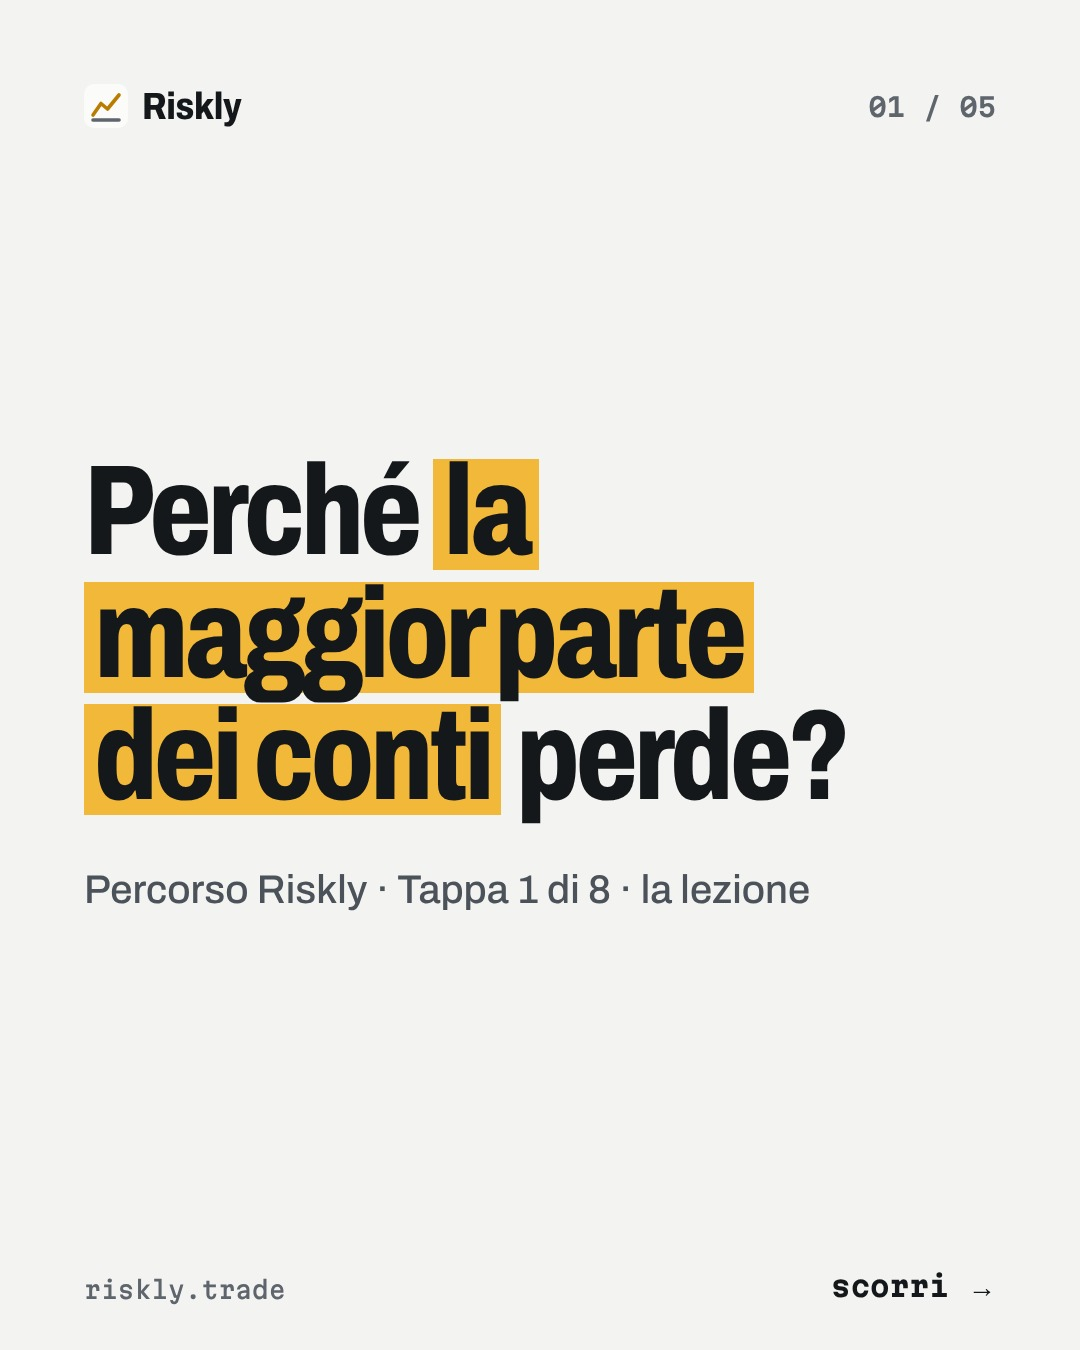
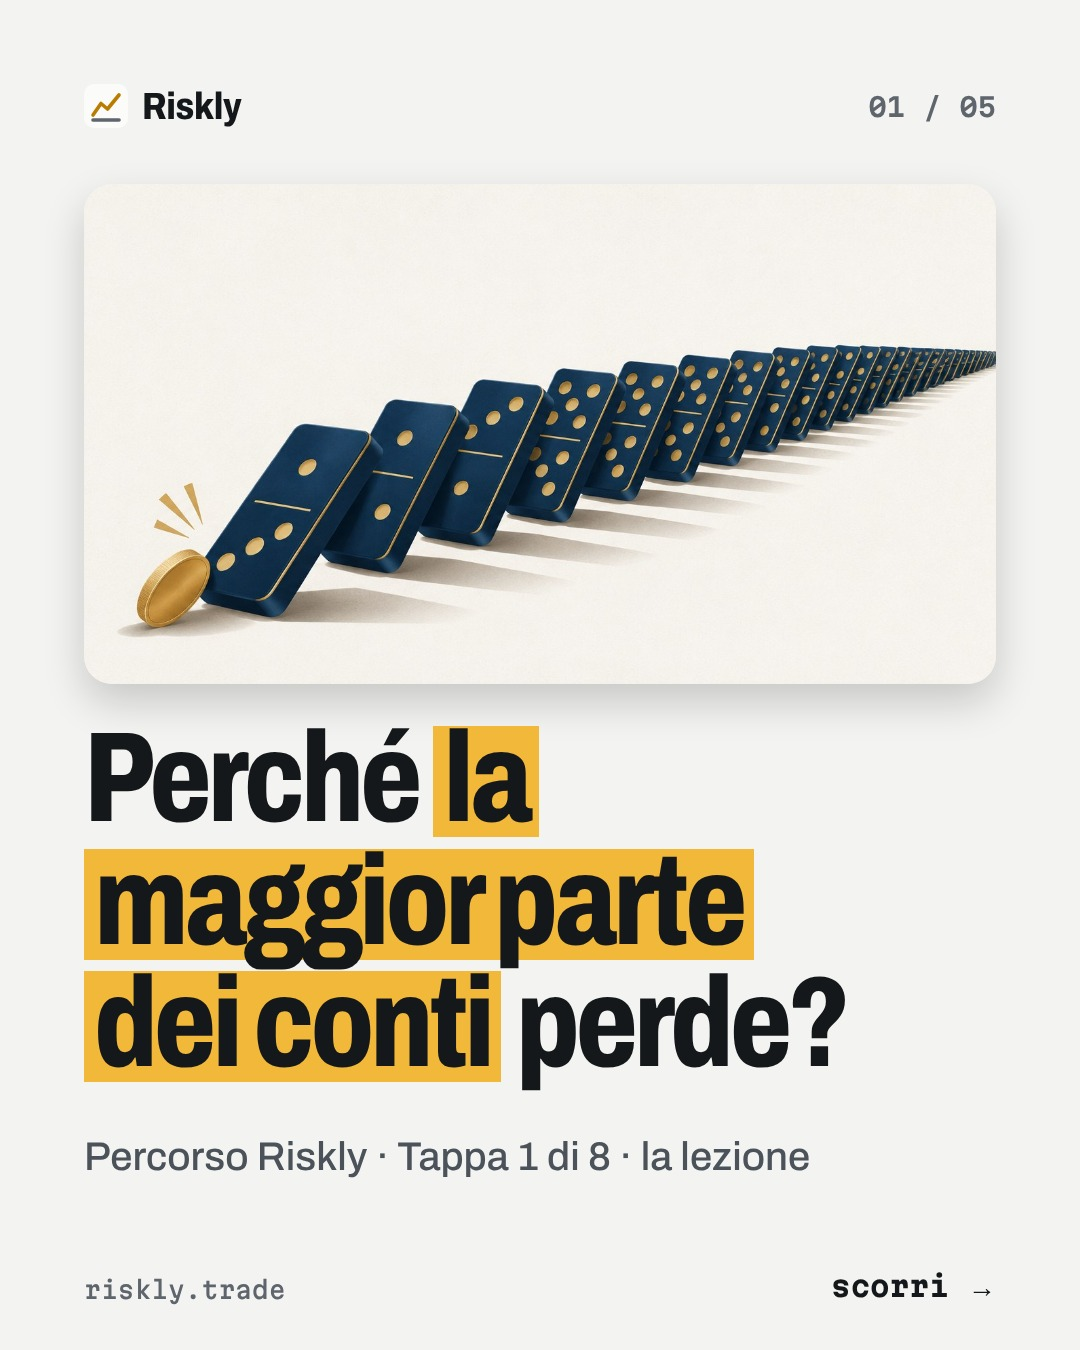
Caroselli: immagine Higgsfield nella prima slide (p1-lezione)
Claude-Session: https://claude.ai/code/session_01Rox5Y82H3wuFvLiNNm8L9A

Changed region(s): [[0.0611, 0.2489, 0.9472, 0.8089], [0.3667, 0.84, 0.7639, 0.8711], [0.0611, 0.84, 0.3361, 0.8711]]

diff --git a/social/caroselli/modello.html b/social/caroselli/modello.html
@@ -50,6 +50,7 @@
   .piede{position:absolute;left:84px;right:84px;bottom:46px;display:flex;justify-content:space-between;align-items:flex-end;font:500 24px 'Martian Mono';color:var(--grigio2)}
   .disc{font:500 24px/1.4 'Archivo';color:var(--grigio2);max-width:44ch}
   .freccia{font:700 28px 'Martian Mono';color:var(--inchiostro)}
+.foto{display:block;width:100%;height:500px;object-fit:cover;border-radius:28px;margin:0 0 34px;box-shadow:0 18px 40px rgba(0,0,0,.18)}
 </style></head>
 <body><div id="s" class="s"></div>
 <script>
@@ -71,7 +72,7 @@ function candele(cv, seme){
 window.mostra = (d, i, n) => {
   const s = document.getElementById('s');
   let c = '';
-  if(d.tipo === 'copertina') c = `<div class="grande">${d.testo}</div><div class="sotto">${d.sotto || ''}</div>`;
+  if(d.tipo === 'copertina') c = `${d.immagine ? `<img class="foto" src="${d.immagine}">` : ''}<div class="grande">${d.testo}</div><div class="sotto">${d.sotto || ''}</div>`;
   if(d.tipo === 'testo') c = `<div class="tit">${d.titolo}</div><div class="par">${d.testo}</div>${d.nota ? `<div class="nota">${d.nota}</div>` : ''}`;
   if(d.tipo === 'numeri') c = `<div class="tit">${d.titolo}</div><div class="righe">${d.righe.map(r => `<div class="riga"><span>${r[0]}</span><span>${r[1]}</span></div>`).join('')}</div>${d.nota ? `<div class="nota">${d.nota}</div>` : ''}`;
   if(d.tipo === 'frasi') c = d.voci.map(v => `<div class="frase"><span class="n">${v[0]}</span><span class="q">${v[1]}</span><span class="a">${v[2]}</span></div>`).join('');

diff --git a/notizie/higgsfield_scarica.py b/notizie/higgsfield_scarica.py
@@ -1,0 +1,11 @@
+# Scarica un'immagine creata con Higgsfield e la segna nel registro dei crediti (budget 100/mese, Gabriele 22/11).
+# uso: python3 notizie/higgsfield_scarica.py ID URL USCITA.jpg [crediti=0.75]  → stampa il percorso e i crediti usati nel mese
+import datetime as dt, io, json, os, sys, urllib.request
+from PIL import Image
+ID, URL, OUT = sys.argv[1:4]; CR = float(sys.argv[4]) if len(sys.argv) > 4 else .75
+os.makedirs(os.path.dirname(os.path.abspath(OUT)), exist_ok=True)
+Image.open(io.BytesIO(urllib.request.urlopen(urllib.request.Request(URL, headers={'User-Agent': 'Mozilla/5.0'}), timeout=60).read())).convert('RGB').save(OUT, quality=88)
+reg = os.path.join(os.path.dirname(os.path.abspath(__file__)), 'higgsfield_registro.json'); R = json.load(open(reg)) if os.path.exists(reg) else []
+if not any(x.get('src') == URL for x in R): R.append({'data': dt.date.today().isoformat(), 'id': ID, 'src': URL, 'crediti': CR})
+json.dump(R, open(reg, 'w'), ensure_ascii=False, indent=0)
+m = dt.date.today().strftime('%Y-%m'); print(OUT); print(f"crediti Higgsfield usati questo mese: {sum(x['crediti'] for x in R if x['data'].startswith(m)):.2f} / 100")
